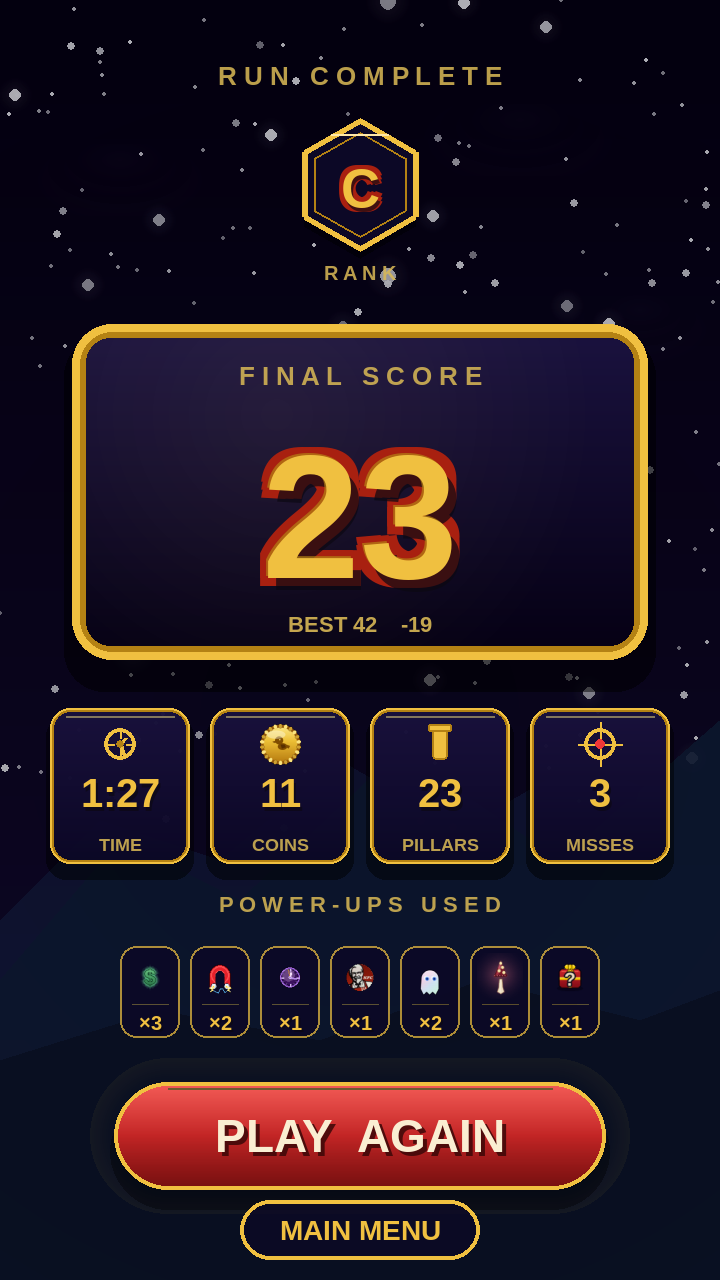
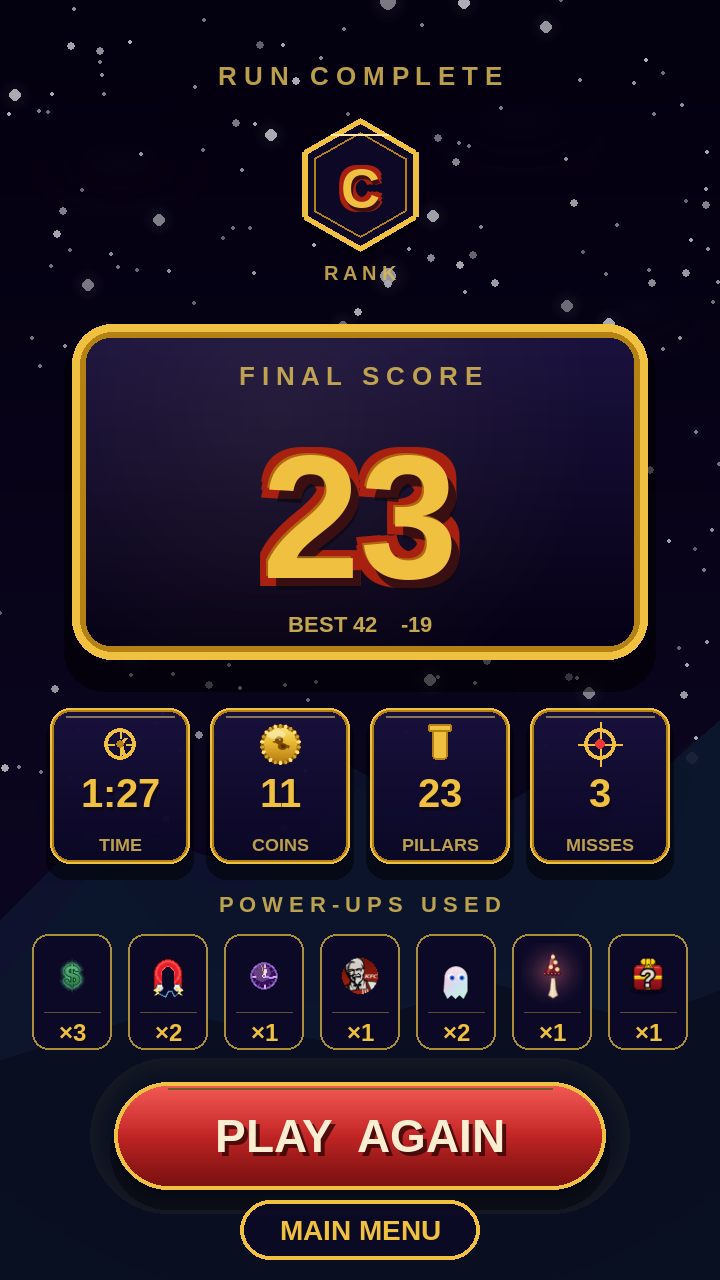
v1 power-ups: single fixed chip size for 1..7 kinds
Dropped the adaptive shrink (was 22→19→17→15 based on count). At a
360-wide canvas, size=20 with 8px gaps fits all 7 kinds in one row
with 32px side margin to spare — and keeps the chips identical
between a 3-power-up run and a 7-power-up run.

https://claude.ai/code/session_01BEgi1kRwzhWvvC8NuZNc1t

Changed region(s): [[0.1528, 0.7188, 0.9167, 0.8125], [0.0917, 0.75, 0.1222, 0.8125]]

diff --git a/tools/gen_run_summary_redesigns.py b/tools/gen_run_summary_redesigns.py
@@ -742,16 +742,10 @@ def draw_v1_trophy_cinema(surf, data):
                                      True, GOLD_MUTED)
         cap2.set_alpha(220)
         surf.blit(cap2, cap2.get_rect(center=(W // 2, bar_y - 6 * SCALE)))
-        # Adapt chip size to how many kinds are shown so the row is
-        # always centred and never overflows the screen
-        if len(pu) <= 4:
-            chip_size, chip_gap = 22, 8
-        elif len(pu) <= 5:
-            chip_size, chip_gap = 19, 7
-        elif len(pu) == 6:
-            chip_size, chip_gap = 17, 6
-        else:  # 7
-            chip_size, chip_gap = 15, 5
+        # Fixed chip size — comfortably fits all 7 power-up kinds in
+        # a single centred row at the 360-wide game canvas (7 × 40 + 6
+        # × 8 = 328 logical px, leaving 32 px total margin).
+        chip_size, chip_gap = 20, 8
         chip_w = chip_size * 2 * SCALE
         chip_pitch = chip_w + chip_gap * SCALE
         total_cw = len(pu) * chip_w + (len(pu) - 1) * chip_gap * SCALE
